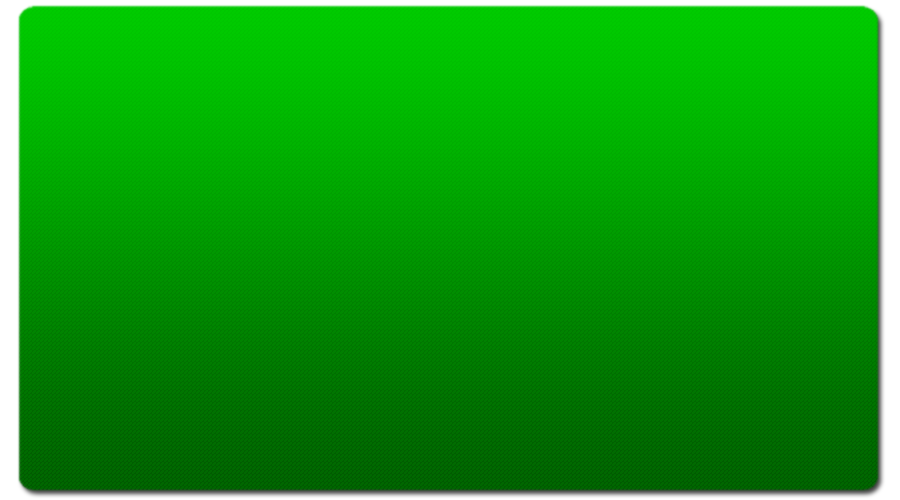
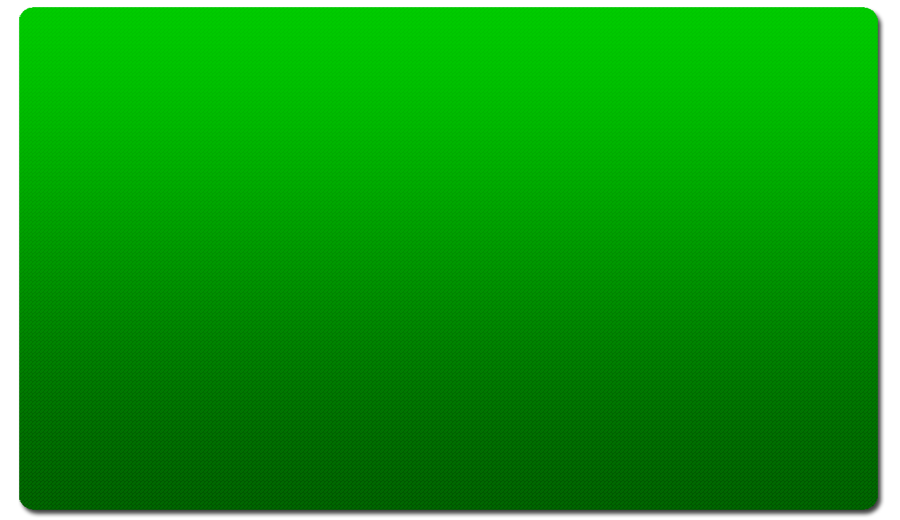
Inserts aangepast en nieuwe images toegevoegd

Changed region(s): [[0.0311, 0.0, 0.9644, 0.03]]

diff --git a/yahtzee/resources/css/gameroomStyle.css b/yahtzee/resources/css/gameroomStyle.css
@@ -24,7 +24,7 @@
 	background-image:url(../images/gameBodyBg.png);
 	background-repeat:no-repeat;
 	width:900px;
-	height:500px;
+	height:520px;
 }
 
 #rooms{
